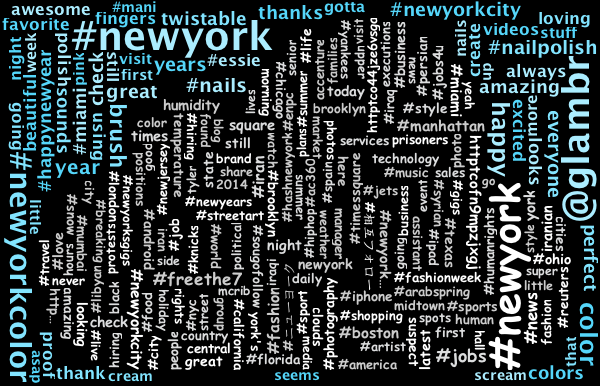
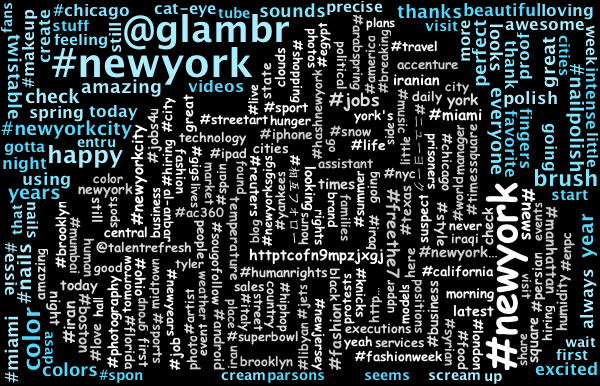
separate unit/integration tests + refactoring

diff --git a/src/test/java/com/kennycason/kumo/WordCloudITest.java b/src/test/java/com/kennycason/kumo/WordCloudITest.java
@@ -61,13 +61,13 @@ public class WordCloudITest {
     }
 
     @Test
-    public void loadCatInTheHatFromUrl() throws IOException {
+    public void loadWikipediaFromUrl() throws IOException {
         final FrequencyAnalyzer frequencyAnalyzer = new FrequencyAnalyzer();
-        frequencyAnalyzer.setWordFrequenciesToReturn(500);
-        frequencyAnalyzer.setMinWordLength(3);
+        frequencyAnalyzer.setWordFrequenciesToReturn(1000);
+        frequencyAnalyzer.setMinWordLength(1);
 
-        final List<WordFrequency> wordFrequencies = frequencyAnalyzer.load(new URL("http://www.jasondavies.com/wordtree/cat-in-the-hat.txt"));
-        final Dimension dimension = new Dimension(400, 400);
+        final List<WordFrequency> wordFrequencies = frequencyAnalyzer.load(new URL("http://en.wikipedia.org/wiki/Main_Page"));
+        final Dimension dimension = new Dimension(1000, 1000);
         final WordCloud wordCloud = new WordCloud(dimension, CollisionMode.PIXEL_PERFECT);
         wordCloud.setPadding(1);
         wordCloud.setBackground(new RectangleBackground(dimension));
@@ -76,7 +76,7 @@ public class WordCloudITest {
         wordCloud.setColorPalette(buildRandomColorPalette(5));
         wordCloud.setFontScalar(new LinearFontScalar(18, 70));
         wordCloud.build(wordFrequencies);
-        wordCloud.writeToFile("output/cat_in_the_hat.png");
+        wordCloud.writeToFile("output/wikipedia.png");
     }
 
     @Test

diff --git a/src/main/java/com/kennycason/kumo/WordCloud.java b/src/main/java/com/kennycason/kumo/WordCloud.java
@@ -119,7 +119,7 @@ public class WordCloud {
 
     public void writeToFile(final String outputFileName) {
         String extension = "";
-        int i = outputFileName.lastIndexOf('.');
+        final int i = outputFileName.lastIndexOf('.');
         if (i > 0) {
             extension = outputFileName.substring(i + 1);
         }
@@ -182,7 +182,8 @@ public class WordCloud {
 
     /**
      * try to place in center, build out in a spiral trying to place words for N steps
-     * @param word
+     * @param word the word being placed
+     * @param start the place to start trying to place the word
      */
     protected boolean place(final Word word, final Point start) {
         final Graphics graphics = this.bufferedImage.getGraphics();
@@ -248,6 +249,7 @@ public class WordCloud {
 
         final List<Word> words = new ArrayList<>();
         for (final WordFrequency wordFrequency : wordFrequencies) {
+            // the text shouldn't be empty, however, in case of bad normalizers/tokenizers, this may happen
             if (!wordFrequency.getWord().isEmpty()) {
                 words.add(buildWord(wordFrequency, maxFrequency, colorPalette));
             }

diff --git a/src/main/java/com/kennycason/kumo/bg/PixelBoundryBackground.java b/src/main/java/com/kennycason/kumo/bg/PixelBoundryBackground.java
@@ -27,7 +27,7 @@ public class PixelBoundryBackground implements Background {
      * 
      * @param imageInputStream
      *            InputStream containing an image file
-     * @throws IOException
+     * @throws IOException when fails to open file stream
      */
     public PixelBoundryBackground(final InputStream imageInputStream) throws IOException {
         final BufferedImage bufferedImage = ImageIO.read(imageInputStream);
@@ -40,7 +40,7 @@ public class PixelBoundryBackground implements Background {
      * 
      * @param file
      *            a File pointing to an image
-     * @throws IOException
+     * @throws IOException when fails to open file stream
      */
     public PixelBoundryBackground(final File file) throws IOException {
         this(new FileInputStream(file));
@@ -51,7 +51,7 @@ public class PixelBoundryBackground implements Background {
      * 
      * @param filepath
      *            path to an image file
-     * @throws IOException
+     * @throws IOException when fails to open file stream
      */
     public PixelBoundryBackground(final String filepath) throws IOException {
         this(new File(filepath));

diff --git a/src/main/java/com/kennycason/kumo/bg/RectangleBackground.java b/src/main/java/com/kennycason/kumo/bg/RectangleBackground.java
@@ -19,7 +19,7 @@ public class RectangleBackground implements Background {
 
     /**
      * Creates a rectangle background starting at (0|0) with specified width/height
-     * @param dimension
+     * @param dimension dimension of background
      */
     public RectangleBackground(final Dimension dimension) {
         this(ZERO, dimension);
@@ -27,8 +27,8 @@ public class RectangleBackground implements Background {
 
     /**
      * Creates a rectangle background using {@link Point} and {@link Dimension} for starting points and width/height
-     * @param position
-     * @param dimensions
+     * @param position the point where the rectangle lives on screen
+     * @param dimension dimension of background
      */
     public RectangleBackground(final Point position, final Dimension dimension) {
         this.position = position;
